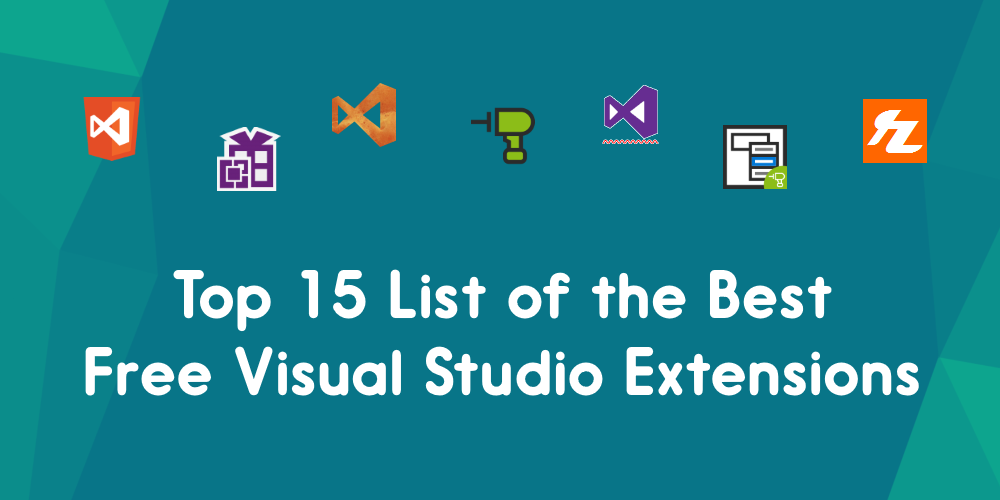
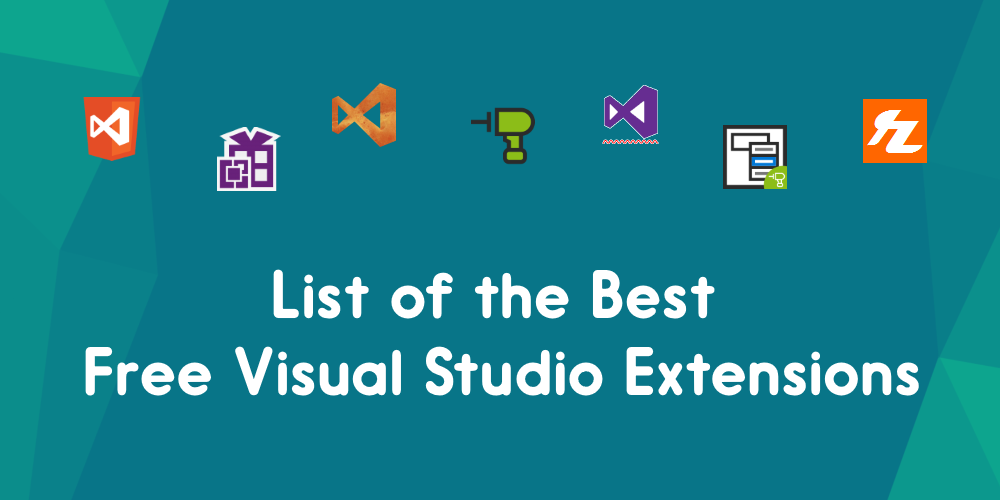
Renamed vs extensions post and added codemaid

Changed region(s): [[0.155, 0.54, 0.837, 0.66]]

diff --git a/docs/list-of-the-best-free-visual-studio-extensions.md b/docs/list-of-the-best-free-visual-studio-extensions.md
@@ -4,11 +4,11 @@ image: images/bestvisualstudioextensions.png
 booksignup: true
 ---
 
-# Top 15 List of the Best Free Visual Studio Extensions
+# List of the Best Free Visual Studio Extensions
 
 ####[Thomas Ardal](http://elmah.io/about/), February ?, 2018
 
-Visual Studio is a great development environment. But with a few extensions, it will be even better. There's a lot of free extensions out there, that will improve happiness of developing and help you reduce bugs. We have collected a list of the 15 best and free extensions for Visual Studio.
+Visual Studio is a great development environment. But with a few extensions, it will be even better. There's a lot of free extensions out there, that will improve the experience of writing code and even help you reduce bugs too. We have collected a list of the best free extensions for Visual Studio.
 
 ![Best Free Visual Studio Extensions](/images/bestvisualstudioextensions.png)
  
@@ -99,6 +99,14 @@ Web.config transformations changed the way we configured web sites. I remember c
 Another popular umbrella extension is Web Essentials. We already touched some of the extensions installed by Web Essentials, but we still believe that this is worth a mention. So many web developer improvements go into Visual Studio, when installing WE.
 
 <img src="/images/webessentials.png" style="box-shadow:none;"/>
+
+<hr/>
+
+## <a href="https://marketplace.visualstudio.com/items?itemName=SteveCadwallader.CodeMaid" target="_blank" rel="noopener noreferrer">CodeMaid</a>
+
+Code cleanup, restructuring as well as a range of other helpful tools is what you will receive after installing CodeMaid. The nice thing about CodeMaid is, that it's working on multiple file types and not only C#.
+
+<img src="/images/codemaid.png" style="box-shadow:none;"/>
 
 <hr/>
 
